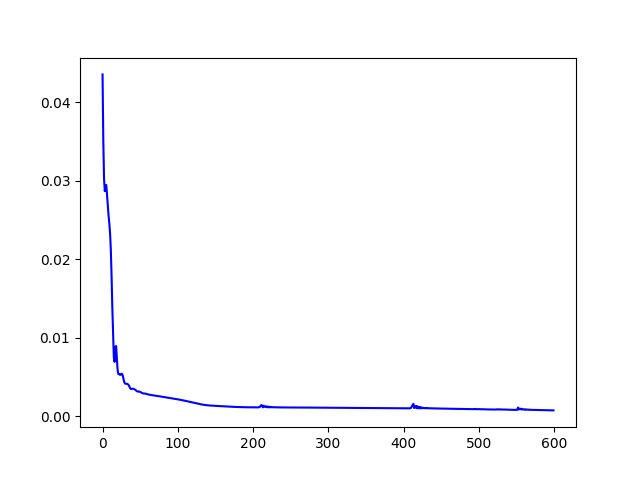
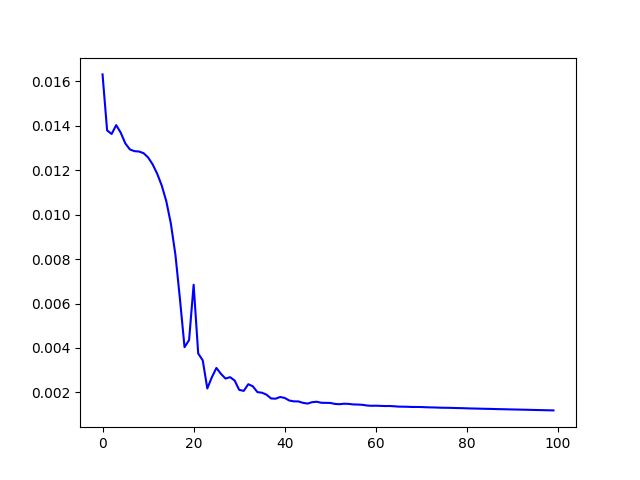
add new dataloader

diff --git a/main.py b/main.py
@@ -103,9 +103,9 @@ def data_process_SV(root_path, seq_length):
 
              Bd.append(new_nd_data)
         count += 1
-        print("!!!!!!!!!", count)
-        if count == 100:
-            break
+    print("Totally {} *.csv files".format(count))
+        #if count == 100:
+        #    break
     
     All_Series = np.vstack(Bd)
     All_Series = All_Series.astype(np.float32)
@@ -174,13 +174,19 @@ def data_scaler(data):
 
 
 
-def build_model(input_dim, hidden_dim, num_layers, output_dim):
-    model = LSTM(input_dim=input_dim, hidden_dim=hidden_dim, output_dim=output_dim, num_layers=num_layers)
+def build_model(input_dim, hidden_dim, num_layers, output_dim, device):
+    model = LSTM(input_dim=input_dim, hidden_dim=hidden_dim, output_dim=output_dim, num_layers=num_layers, device=device)
     #model = LSTMAttention(input_size=input_dim, hidden_size=hidden_dim, num_layers=num_layers, output_size=output_dim)
 
     return model
 
-def train(model, num_epochs, x_train, y_train_lstm, criterion, optimiser):
+def train(model, num_epochs, x_train, y_train_lstm, criterion, optimiser, device):
+
+    model = model.to(device)
+    model.train()
+    x_train = x_train.to(device)
+    y_train_lstm = y_train_lstm.to(device)
+
     loss_list=[]
     for i in range(num_epochs):
         y_train_pred = model(x_train)
@@ -193,11 +199,12 @@ def train(model, num_epochs, x_train, y_train_lstm, criterion, optimiser):
     #torch.save(model, "price_predictor_epo{}.pth".format(num_epochs))
     return y_train_pred, loss_list
 
-def evaluation(model, x_test, test_label):
+def evaluation(model, x_test, test_label, device):
     model = model.eval()
     #torch.onnx.export(model, x_test, "model.onnx", verbose=True)
+    x_test = x_test.to(device)
     test_pred = model(x_test)
-    test_pred = test_pred.detach().numpy()
+    test_pred = test_pred.detach().cpu().numpy()
     #print("check y_test_pred: ", y_test_pred)
     print("predcition is: ", test_pred.shape, type(test_pred), type(test_label), test_label.shape)
     rme_value = math.sqrt(mean_squared_error(test_label[:,0], test_pred[:,0]))
@@ -209,7 +216,7 @@ def evaluation(model, x_test, test_label):
 if __name__ == '__main__':
 
 
-    root_data = r"/Users/zhouz/Project/VM_Workload_Predictor/fastStorage/VMmonitoring"
+    root_data = r"/proj/zhou-cognit/users/x_zhozh/project/faststorage/VMmonitoring"
     All_Series = data_process_SV(root_data, 100)
     
     
@@ -231,22 +238,29 @@ if __name__ == '__main__':
     test_label_lstm = torch.from_numpy(test_label).type(torch.Tensor)
 
     input_dim = 1
-    hidden_dim = 32
+    hidden_dim = 256
     num_layers = 2
     output_dim = 1
-    num_epochs = 600
+    num_epochs = 100
 
-    model = build_model(input_dim, hidden_dim, num_layers, output_dim)
+    if torch.cuda.is_available():
+        device = torch.device("cuda")
+    else:
+        device = torch.device("cpu")
+
+    print(f"Using device: {device}")
+
+    model = build_model(input_dim, hidden_dim, num_layers, output_dim, device).to(device)
     criterion = torch.nn.MSELoss()
     optimiser = torch.optim.Adam(model.parameters(), lr=0.005)
 
 
-    y_train_pred, loss_list = train(model, num_epochs, train_data, train_label_lstm, criterion, optimiser)
+    y_train_pred, loss_list = train(model, num_epochs, train_data, train_label_lstm, criterion, optimiser, device)
     plt.figure()
     plt.plot(loss_list, color='b', label='loss curve')
-    plt.savefig('CPU_loss_curve.png')
+    plt.savefig('CPU_loss_curve.pdf')
 
-    test_pred = evaluation(model, test_data, test_label)
+    test_pred = evaluation(model, test_data, test_label, device)
     #print(test_pred.shape)
     #print(test_label.shape)
     #test_pred = test_pred.reshape(-1,300)
@@ -264,8 +278,9 @@ if __name__ == '__main__':
     plt.plot(test_label[:100], color='g')
     plt.xlabel('timestamp')
     plt.ylabel('CPU Usage')
-    plt.legend()
-    plt.show()
+    plt.savefig('CPU_prediction.pdf')
+    #plt.legend()
+    #plt.show()
 
 
 

diff --git a/model.py b/model.py
@@ -4,7 +4,7 @@ import torch.nn as nn
 
 
 class LSTM(nn.Module):
-    def __init__(self, input_dim, hidden_dim, num_layers, output_dim):
+    def __init__(self, input_dim, hidden_dim, num_layers, output_dim, device):
         super(LSTM, self).__init__()
         self.hidden_dim = hidden_dim
         self.num_layers = num_layers
@@ -14,9 +14,11 @@ class LSTM(nn.Module):
         self.fc_2 = nn.Linear(hidden_dim, output_dim)
         self.fc_3 = nn.Linear(hidden_dim, output_dim)
 
+        self.device = device
+
     def forward(self, x):
-        h0 = torch.zeros(self.num_layers, x.size(0), self.hidden_dim).requires_grad_()
-        c0 = torch.zeros(self.num_layers, x.size(0), self.hidden_dim).requires_grad_()
+        h0 = torch.zeros(self.num_layers, x.size(0), self.hidden_dim).requires_grad_().to(self.device)
+        c0 = torch.zeros(self.num_layers, x.size(0), self.hidden_dim).requires_grad_().to(self.device)
         out, (hn, cn) = self.lstm(x, (h0.detach(), c0.detach()))
         #print("check lstm's out shape: ", out.shape)
         out_1 = self.fc_1(out[:, -1, :])

diff --git a/dataset.py b/dataset.py
@@ -1,0 +1,17 @@
+import torch
+from torch.utils.data import Dataset, DataLoader
+
+class Workload_dataset(Dataset):
+    def __init__(self, data, labels):
+        self.data = data
+        self.labels = labels
+    
+    def __len__(self):
+        return len(self.data)
+    
+    def __getitem__(self, index):
+
+        history_data = self.data[index]
+        future_data = self.labels[index]
+        
+        return history_data, future_data
